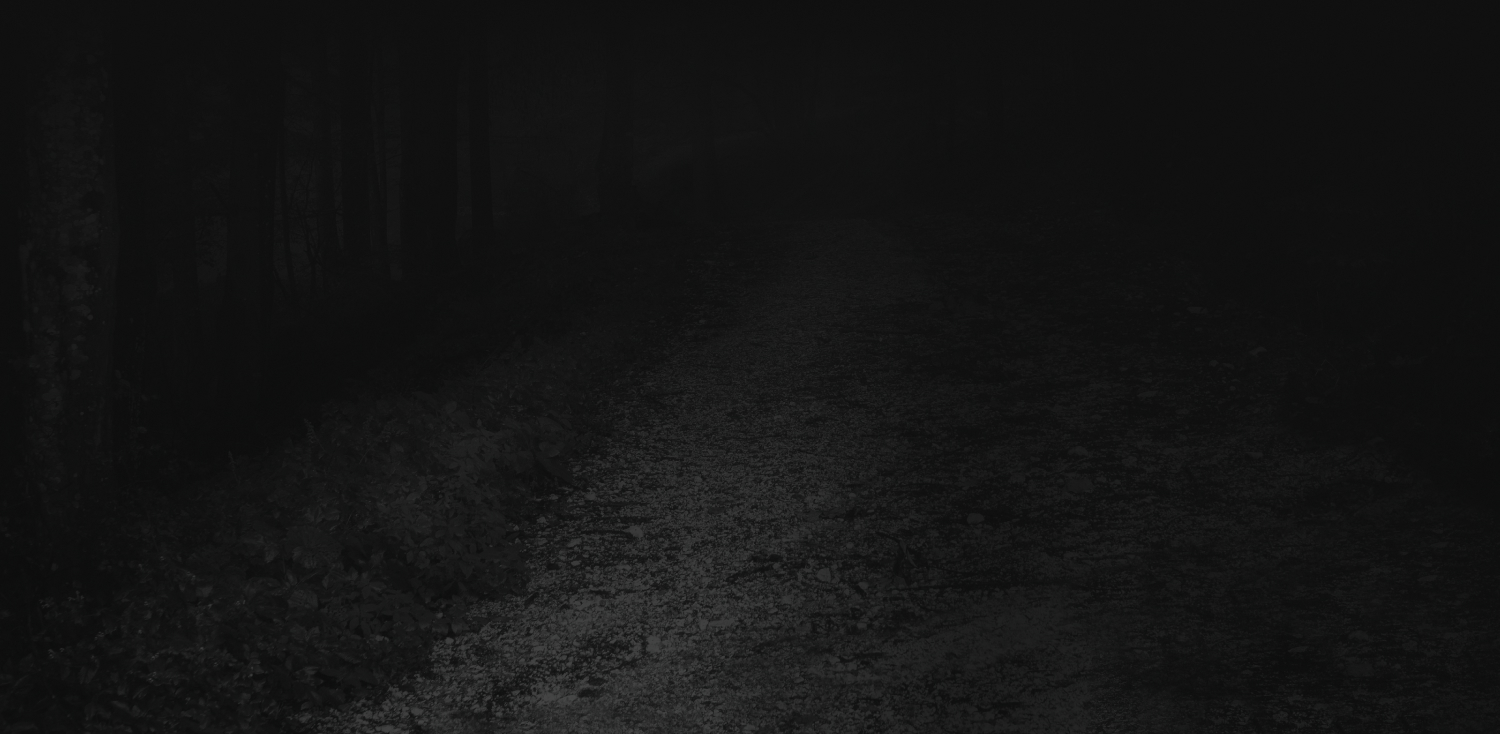
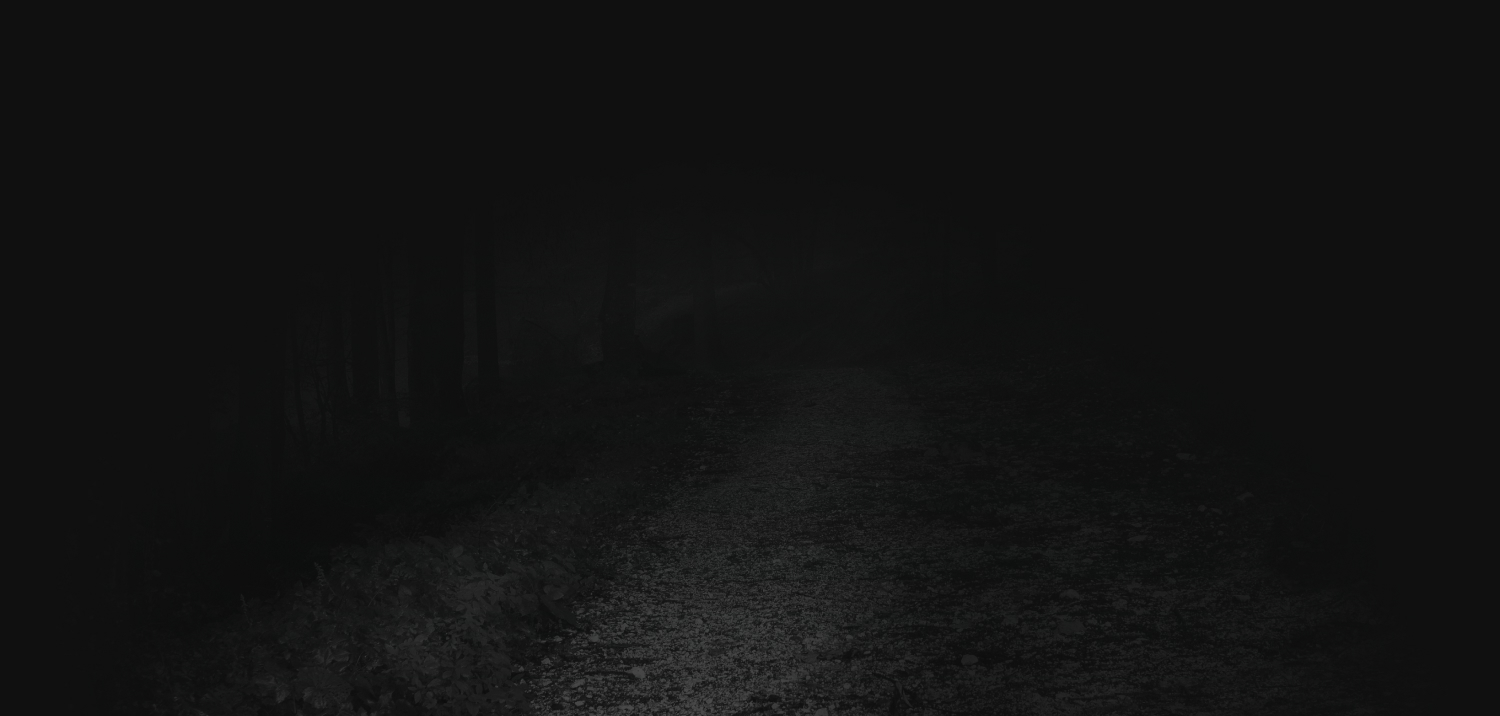
text animations, view timeline

Changed region(s): [[0.2147, 0.6145, 0.552, 1.0]]

diff --git a/assets/css/components/textscroll.css b/assets/css/components/textscroll.css
@@ -2,6 +2,18 @@
 textscroll
 ============================================ */
 
+@keyframes scrollOne {
+  to {
+    translate: calc(100% - 100cqi);
+  }
+}
+
+@keyframes scrollTwo {
+  to {
+    translate: calc(-100% + 100cqi);
+  }
+}
+
 .textscroll {
   --textscroll-fontsize: clamp(72px, 12vi, 210px);
   --textscroll-color: var(--color-neutral-300);
@@ -18,6 +30,11 @@ textscroll
   text-wrap: nowrap;
 
   overflow-x: clip;
+
+  /* 
+		- défini comme container dans la diemnsion inline-size
+		- quand on utilise des CQI comme unité (voir les anims scrollStart et scrollEnd), le browser remonte dans l'arbre du document jusqu'au premier container inilmine défini. 
+	*/
   container-type: inline-size;
 
   & > p {
@@ -26,10 +43,23 @@ textscroll
 }
 
 .textscroll__one {
-  direction: rtl;
-  text-align: start;
+  inline-size: min-content;
+  /* 
+  - par default on translate celui-ci de -100% de sa taille + 100cqi de son container (.textscroll)
+  - on utilise transform comme propriété psq on va utiliser translate dans nos animations, comme cela pas de conflit
+  */
+  transform: translateX(calc(-100% + 100cqi));
+
+  @supports (animation-timeline: view()) {
+    animation: scrollOne linear both;
+    animation-timeline: view();
+  }
 }
 
 .textscroll__two {
-  text-align: end;
+  inline-size: min-content;
+  @supports (animation-timeline: view()) {
+    animation: scrollTwo linear both;
+    animation-timeline: view();
+  }
 }

diff --git a/assets/css/base/body.css b/assets/css/base/body.css
@@ -3,25 +3,23 @@ body
 ============================================ */
 
 body {
-	margin: 0;
-	padding: 0;
+  margin: 0;
+  padding: 0;
 
-	background-color: var(--color-bkg-primary);
-	background-image:
-		url(../../img/hero_bkg_1500.jpg), url(../../img/bottom_bkg_1500.jpg);
-	background-position:
-		50% 0,
-		50% 100%;
-	background-repeat: no-repeat;
-	background-size:
-		100% auto,
-		100% auto;
+  background-color: var(--color-bkg-primary);
+  background-image:
+    url(../../img/hero_bkg_1500.jpg), url(../../img/bottom_bkg_1500.jpg);
+  background-position:
+    50% 0,
+    50% 100%;
+  background-repeat: no-repeat;
+  background-size:
+    100% auto,
+    auto auto;
 
-	color: var(--color-text-primary);
+  color: var(--color-text-primary);
 
-	@media (width >= 1500px) {
-		background-size:
-			auto auto,
-			100% auto;
-	}
+  @media (width >= 1500px) {
+    background-size: auto auto;
+  }
 }

diff --git a/assets/css/components/ctalink.css b/assets/css/components/ctalink.css
@@ -3,16 +3,25 @@ CTA Link (call to action)
 ============================================ */
 
 .ctalink {
-	display: inline-block;
+  --cta-border-color: var(--color-accent);
 
-	font-weight: 500;
-	line-height: 1.2;
-	font-size: var(--fontsize-200);
-	color: var(--color-text-highlight);
-	text-transform: uppercase;
-	letter-spacing: 0.24ch;
+  display: inline-block;
 
-	text-decoration: none;
-	padding-block-end: 0.54em;
-	border-block-end: 3px solid var(--color-accent);
+  font-weight: 500;
+  line-height: 1.2;
+  font-size: var(--fontsize-200);
+  color: var(--color-text-highlight);
+  text-transform: uppercase;
+  letter-spacing: 0.24ch;
+
+  text-decoration: none;
+  padding-block-end: 0.54em;
+  border-block-end: 3px solid var(--cta-border-color);
+
+  transition: border-color 0.2s ease-out;
+
+  &:hover,
+  &:focus-within {
+    --cta-border-color: var(--color-accent-bright);
+  }
 }

diff --git a/assets/css/components/slider.css b/assets/css/components/slider.css
@@ -54,18 +54,18 @@ slider
 
     aspect-ratio: 1;
     color: black;
+    font-weight: 600;
     inline-size: var(--scrollbutton-size);
-    block-size: var(--scrollbutton-size);
     background-color: white;
     border: none;
     border-radius: 999px;
     cursor: pointer;
-    font-family: "Material Symbols", system-ui, sans-serif;
+    font-family: system-ui, sans-serif;
     z-index: 3;
-    box-shadow: 0 3px 6px rgba(0, 0, 0, 0.2);
+    box-shadow: 0 3px 6px rgba(0, 0, 0, 0.5);
   }
 
-  .slider__track::scroll-button(left) {
+  .slider__track::scroll-button(inline-start) {
     content: "←" / "previous";
     position: fixed;
     position-anchor: --slider;
@@ -73,7 +73,7 @@ slider
     translate: 24px 0;
   }
 
-  .slider__track::scroll-button(right) {
+  .slider__track::scroll-button(inline-end) {
     content: "→" / "next";
     position: fixed;
     position-anchor: --slider;

diff --git a/assets/css/components/siteheader.css b/assets/css/components/siteheader.css
@@ -31,10 +31,25 @@ header
   font-size: var(--siteheader-font-size);
   margin-block-end: 0.6ch;
   letter-spacing: -0.06ch;
+}
 
-  & > span {
-    display: block;
-  }
+.siteheader__title > div {
+  overflow: clip;
+}
+
+.siteheader__title span {
+  display: inline-block;
+
+  /* nom de l'animation */
+  animation-name: slideInFromBottom;
+  /* durée de l'animation */
+  animation-duration: 0.36s;
+  /* délais avant animation (variables définies dans le HTML via l'attribut style) */
+  animation-delay: var(--delay);
+  /* easing */
+  animation-timing-function: ease-out;
+  /* attend sur la première frame de l'animation et quand l'animation est finie, reste sur la dernière frame */
+  animation-fill-mode: both;
 }
 
 .siteheader__vtext {

diff --git a/assets/css/components/sitefooter.css b/assets/css/components/sitefooter.css
@@ -3,17 +3,16 @@ footer
 ============================================ */
 
 .sitefooter {
-	--sitefooter-padding: clamp(30px, 1.273rem + 2.752vi, 60px);
+  --sitefooter-padding: clamp(30px, 1.273rem + 2.752vi, 60px);
 
-	text-align: center;
-	padding-block: var(--sitefooter-padding);
+  text-align: center;
+  padding-block: var(--sitefooter-padding);
 }
 
 .sitefooter__social {
-	margin-block-end: 24px;
+  margin-block-end: 24px;
 }
 
 .sitefooter__copyright > p {
-	font-size: var(--fontsize-200);
-	color: var(--color-text-secondary);
+  font-size: var(--fontsize-200);
 }

diff --git a/index.html b/index.html
@@ -11,8 +11,12 @@
       <div class="container">
         <div class="siteheader__content">
           <h1 class="siteheader__title">
-            <span>Send</span>
-            <span>a Raven</span>
+            <div>
+              <span style="--delay: 0">Send</span>
+            </div>
+            <div>
+              <span style="--delay: 0.25s">a Raven</span>
+            </div>
           </h1>
           <p><a class="ctalink" href="#">Book a bird</a></p>
           <p class="siteheader__vtext siteheader__vtext--start">

diff --git a/assets/css/settings/colors.css b/assets/css/settings/colors.css
@@ -16,11 +16,14 @@ colors
   --color-neutral-900: hsl(185, 3%, 95%);
 
   --color-red: hsl(9, 84%, 40%);
+  --color-red-bright: hsl(9, 75%, 50%);
 
   --color-accent: var(--color-red);
+  --color-accent-bright: var(--color-red-bright);
+
   --color-bkg-primary: var(--color-neutral-100);
   --color-text-primary: var(--color-neutral-700);
-  --color-text-secondary: var(--color-neutral-400);
+  --color-text-secondary: var(--color-neutral-500);
   --color-text-highlight: var(--color-neutral-900);
 }
 

diff --git a/assets/css/main.css b/assets/css/main.css
@@ -9,6 +9,7 @@
 @import "base/html.css" layer(base);
 @import "base/body.css" layer(base);
 @import "base/fonts.css" layer(base);
+@import "base/animations.css" layer(base);
 
 /* COMPONENTS */
 @import "components/container.css" layer(components);

diff --git a/assets/css/components/raven.css b/assets/css/components/raven.css
@@ -23,7 +23,7 @@ raven
 
 .raven__media::before {
   content: "";
-  background-color: var(--color-accent);
+  background-color: var(--color-accent-bright);
   z-index: 1;
   mix-blend-mode: multiply;
   opacity: 0;

diff --git a/assets/css/base/animations.css b/assets/css/base/animations.css
@@ -1,0 +1,6 @@
+@keyframes slideInFromBottom {
+  from {
+    opacity: 0;
+    translate: 0 100%;
+  }
+}
